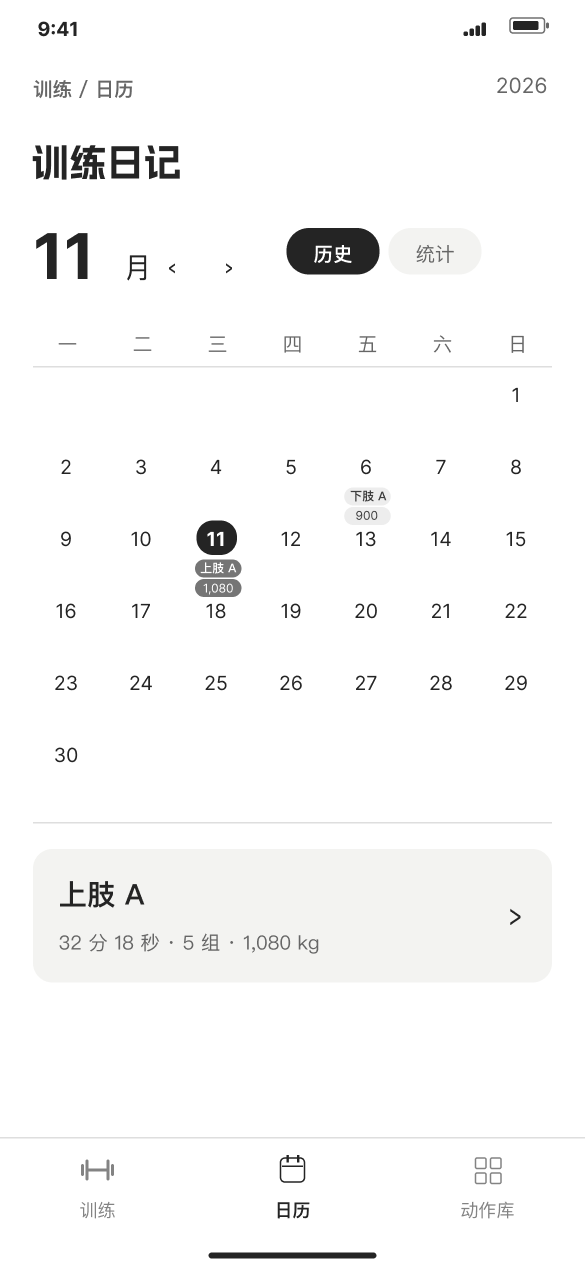
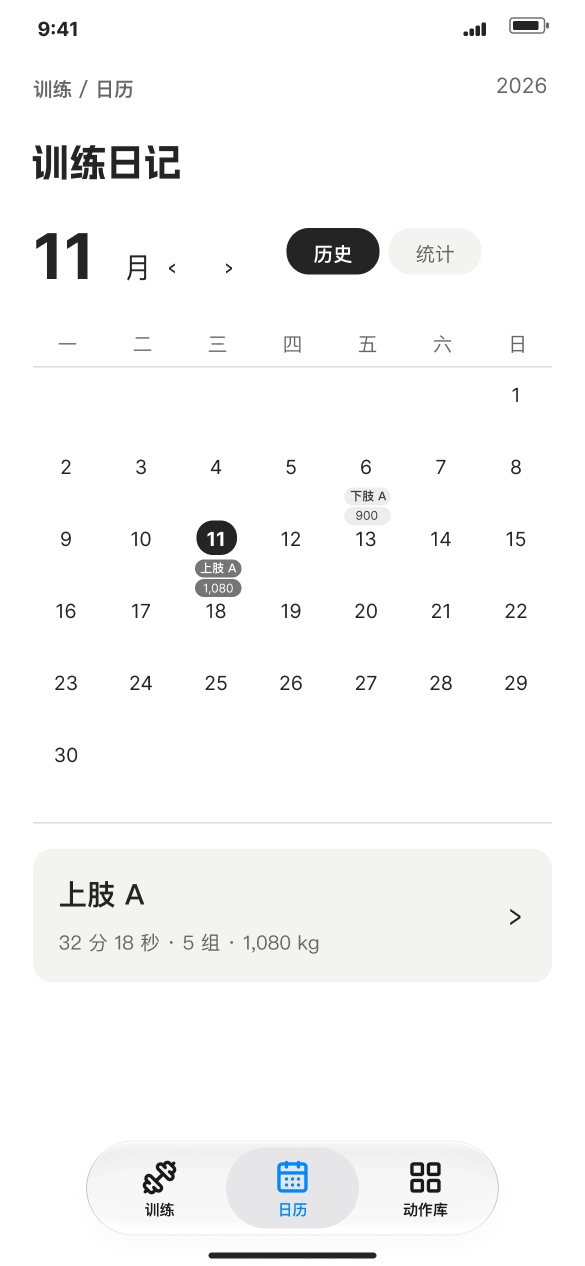
发布健身 1.11.5 并统一手机悬浮导航和卡片底色

diff --git a/app/gym/gym.css b/app/gym/gym.css
@@ -119,7 +119,7 @@ html:has(.gym) {
 }
 .plan-card {
   border-radius: 15px;
-  background: #f3f3f1;
+  background: #f2f2f7;
   position: relative;
   min-width: 0;
 }
@@ -347,20 +347,6 @@ html:has(.gym) {
   width: 100%;
   height: 180px;
   margin: 15px 0;
-}
-.gym-orb {
-  position: fixed;
-  bottom: 26px;
-  left: max(22px, calc(50% - 205px));
-  z-index: 3;
-}
-.gym .gym-orb {
-  border-radius: 50%;
-  width: 56px;
-  height: 56px;
-  padding: 0;
-  background: #292929;
-  color: white;
 }
 .gym-credit {
   display: block;
@@ -632,9 +618,6 @@ html:has(.gym) {
     grid-template-columns: 1fr 1fr;
     gap: 0 30px;
   }
-  .gym[data-device="desktop"] .gym-orb {
-    left: max(40px, calc(50% - 360px));
-  }
   .gym[data-device="desktop"] .gym-plans {
     grid-template-columns: repeat(2, minmax(0, 1fr));
   }
@@ -718,3 +701,47 @@ html:has(.gym) {
 .inline-number input { appearance:textfield; width:100%; min-width:0; border:0; padding:0; background:transparent; color:inherit; text-align:center; outline:0; line-height:1.2; font-family:inherit; font-size:17px; font-weight:600; }
 .inline-number input::-webkit-inner-spin-button { appearance:none; }
 .set-number { font-size:12px; white-space:nowrap; }
+
+.gym-tabs {
+  position: fixed;
+  z-index: 3;
+  left: 50%;
+  bottom: max(18px, env(safe-area-inset-bottom));
+  transform: translateX(-50%);
+  display: flex;
+  width: min(274px, calc(100vw - 32px));
+  height: 62px;
+  box-sizing: border-box;
+  padding: 3px;
+  border: 1px solid rgba(0,0,0,.08);
+  border-radius: 34px;
+  background: linear-gradient(180deg,rgba(239,239,240,.88),rgba(254,254,254,.92));
+  backdrop-filter: blur(18px);
+  box-shadow: inset 0 1px 1px white, 0 2px 7px rgba(0,0,0,.07);
+}
+.gym .gym-tabs button {
+  flex: 1;
+  min-width: 0;
+  display: flex;
+  flex-direction: column;
+  align-items: center;
+  justify-content: center;
+  gap: 1px;
+  padding: 0;
+  border-radius: 28px;
+  color: #1a1a1a;
+  background: transparent;
+  font-size: 10px;
+  line-height: 13px;
+  font-weight: 600;
+}
+.gym .gym-tabs button.highlighted { color: #0088ff; background: rgba(225,225,227,.8); }
+.gym-tabs-compact {
+  width: 106px;
+  left: max(22px, calc(50% - 203px));
+  transform: none;
+}
+.gym-page:has(.gym-tabs-compact) .library-results { padding-bottom: max(94px, calc(env(safe-area-inset-bottom) + 76px)); }
+@media (min-width: 800px) {
+  .gym[data-device="desktop"] .gym-tabs-compact { left: max(40px, calc(50% - 362px)); }
+}

diff --git a/components/gym/gym-app.tsx b/components/gym/gym-app.tsx
@@ -1,6 +1,7 @@
 "use client";
 import Image from "next/image";
-import { CalendarDays, Dumbbell, LayoutGrid, Pencil } from "lucide-react";
+import { GymNavigation } from "./navigation";
+import { Pencil } from "lucide-react";
 import { useEffect, useRef, useState } from "react";
 import { changeGym, readGym, readWorkout } from "@/app/gym/actions";
 import { loginUrl } from "@/lib/login-routing";
@@ -499,26 +500,7 @@ export default function GymApp({
           />
         )}
         {navVisible && (
-          <nav className="gym-dock" aria-label="健身导航">
-            {(["home", "diary", "browse"] as const).map((v, i) => (
-              <button
-                key={v}
-                className={
-                  view === v || (v === "diary" && isDiary) ? "current" : ""
-                }
-                onClick={() => go(v)}
-              >
-                {i === 0 ? (
-                  <Dumbbell size={18} aria-hidden="true" />
-                ) : i === 1 ? (
-                  <CalendarDays size={18} aria-hidden="true" />
-                ) : (
-                  <LayoutGrid size={18} aria-hidden="true" />
-                )}
-                {["训练", "日历", "动作库"][i]}
-              </button>
-            ))}
-          </nav>
+          <GymNavigation current={isDiary ? "diary" : "home"} navigate={go} />
         )}
         {dialog === "name" && (
           <Sheet title="计划名称" message={message} close={() => show(null)}>

diff --git a/components/gym/navigation.tsx b/components/gym/navigation.tsx
@@ -1,0 +1,27 @@
+"use client";
+
+import { CalendarDays, Dumbbell, LayoutGrid } from "lucide-react";
+
+const tabs = [
+  { view: "home", label: "训练", Icon: Dumbbell },
+  { view: "diary", label: "日历", Icon: CalendarDays },
+  { view: "browse", label: "动作库", Icon: LayoutGrid },
+] as const;
+type Tab = typeof tabs[number]["view"];
+
+export function GymNavigation({ current, compact = false, navigate }: {
+  current: Tab;
+  compact?: boolean;
+  navigate: (tab: Tab) => void;
+}) {
+  return <nav className={"gym-tabs" + (compact ? " gym-tabs-compact" : "")} aria-label="健身导航">
+    {(compact ? tabs.slice(0, 1) : tabs).map(({ view, label, Icon }) => (
+      <button key={view} type="button" className={compact || view === current ? "highlighted" : ""}
+        aria-current={!compact && current === view ? "page" : undefined}
+        aria-label={compact ? "返回训练首页" : label} onClick={() => navigate(view)}>
+        <Icon size={24} strokeWidth={2.25} aria-hidden="true" />
+        <span>{label}</span>
+      </button>
+    ))}
+  </nav>;
+}

diff --git a/components/gym/library.tsx b/components/gym/library.tsx
@@ -2,6 +2,7 @@
 import { useMemo, useRef, useState } from "react";
 import type { Exercise } from "@/lib/gym/model";
 import { Check, Search } from "lucide-react";
+import { GymNavigation } from "./navigation";
 import { GymTitle, Thumb, Sheet, modeLabels } from "./parts";
 export function Library({
   catalog,
@@ -103,9 +104,7 @@ export function Library({
         </div>
       </section>
       {browse && (
-        <button className="gym-orb" aria-label="返回训练首页" onClick={onBack}>
-          训练
-        </button>
+        <GymNavigation current="browse" compact navigate={onBack} />
       )}
       {detail && (
         <Sheet title={detail.name} close={() => setDetail(null)}>

diff --git a/lib/product-versions.ts b/lib/product-versions.ts
@@ -1,5 +1,5 @@
 export const productVersions = {
   login: "1.11.1",
   todo: "1.11.1",
-  gym: "1.11.4",
+  gym: "1.11.5",
 } as const;

diff --git a/docs/设计日志/健身/设计与写作规则.md b/docs/设计日志/健身/设计与写作规则.md
@@ -19,7 +19,7 @@
 - 用户进健身房时打开手机，开始记录本次训练，随训练进度逐组操作。
 - 手机端提供动作库，训练中可以添加动作、为动作设置组数。每组都能手动填写实际重量和次数，做完一组即可单独点击完成。
 - 用户可以新建自己的训练计划。
-- 从底栏进入动作库仅浏览，左下圆形入口回首页。新建计划时多选动作，点完成后命名、保存并返回首页；训练中临时追加的动作只写入当次训练。动作图匹配器械与姿势，缺图保留相同尺寸的图位。
+- 从底栏进入动作库仅浏览，左下短胶囊入口回首页。新建计划时多选动作，点完成后命名、保存并返回首页；训练中临时追加的动作只写入当次训练。动作图匹配器械与姿势，缺图保留相同尺寸的图位。
 - 逐组记录支持重量与次数、左右分别记录、持续时间。可以新增加组、撤销完成、最小化继续、保存心得。完成后查看时长、容量、完成组与未训练动作；日记按选中日期列出训练，统计共用训练数据。
 - 容量口径为本阶段实现选择：仅累加完成组的外部负重。杠铃按含杆总重；双哑铃同步按单只重量 × 2 × 次数；左右独立按两侧重量 × 各自次数相加；自重只计额外负重，辅助配重与计时不折算 kg。日历按开始时的上海自然日归档，多次训练可合计。
 - 账号与会话复用在侧，模块登录回跳区分手机与桌面。动作库和图像由服务端管理，各账号仅能访问自己的计划、训练与心得。
@@ -38,3 +38,5 @@
 普通组和递减组按整组勾选。递减组每段记录独立的重量和次数，完成后累计各段容量、计一个完成组。组行依次显示组号、负重、次数、勾选及更多操作；计时动作显示秒数。更多菜单可转换为递减组或复制整组。复制保留全部段并置为未完成。历史详情底部可删除该次记录，确认后返回原日期；刚结束训练的总结仍可返回训练首页。
 
 训练中点重量、次数或秒数直接在该框录入。重量允许小数，次数与秒数为整数。单侧动作分别编辑左、右值。切换字段与勾选可连续操作，只有组菜单和历史删除确认使用弹层。
+
+主导航为悬浮胶囊。训练、日历、动作库分别使用哑铃、日历页、四格图标，选中入口为蓝色。浏览动作库时只显示左下训练返回入口；进行中的训练沿用当次训练操作栏。计划双列的浅色实底采用 #F2F2F7。

diff --git a/docs/设计日志/健身/设计日志.md b/docs/设计日志/健身/设计日志.md
@@ -130,3 +130,9 @@
 在 Figma EX 的手机端同步主训练页、训练开始与逐组状态、复制与递减示例、左右与计时数据框。数字框的焦点状态使用数字键盘示意。日记的 11 月 6 日及 11 日记录分别连接历史专用详情、删除确认及原日期空态，刚结束的总结保留首页出口。
 
[1 lines of base64/hex data omitted]
+
+## 2026-11-12-06｜主导航与计划卡底色
+
+依据用户手改 01 和 02 同步主导航。完整胶囊 274 × 62、返回胶囊 106 × 62，使用手改稿的玻璃背景组件，换成与网页同源的哑铃、日历页和四格矢量图标。上肢卡在首页与保存、恢复训练状态统一为 #F2F2F7。复核 24 个画板实例中各按钮的跳转目标。
+
+取生产 20261112-04 完整源码，使用业务发布脚本上线健身 1.11.5 / 20261112-05。隔离发布包在 320、390、430 px 手机宽度验证导航、选中态、动作库收起与返回及卡片底色；并回归原位输入、递减、复制及历史删除。数据库沿用版本 10，发布前备份，完整源包已回传校验。[Linux 构建](https://github.com/zqsoren/Foilo/actions/runs/43161634317)

diff --git a/docs/设计日志/在侧Folio-新窗口交接.md b/docs/设计日志/在侧Folio-新窗口交接.md
@@ -13,7 +13,7 @@
 | 模块 | 最近里程碑 | 当前状态 | 历史过程 | 现行规则 |
 |---|---|---|---|---|
 | ToDo（日程） | 网页版与共用登录已上线；手机端七张黑白灰设计稿待评审 | [当前状态](ToDo/新窗口交接.md) | [设计日志](ToDo/设计日志.md) | [设计与写作规则](ToDo/设计与写作规则.md) |
-| 健身 | 手机训练与桌面统计已上线，入口 `/gym`，产品版本 1.11.4 | [当前状态](健身/新窗口交接.md) | [设计日志](健身/设计日志.md) | [设计与写作规则](健身/设计与写作规则.md) |
+| 健身 | 手机训练与桌面统计已上线，入口 `/gym`，产品版本 1.11.5 | [当前状态](健身/新窗口交接.md) | [设计日志](健身/设计日志.md) | [设计与写作规则](健身/设计与写作规则.md) |
 | 宣传页 | 第五版桌面页已上线；手机不在本轮范围 | [当前状态](宣传页/新窗口交接.md) | [设计日志](宣传页/设计日志.md) | [设计与写作规则](宣传页/设计与写作规则.md) |
 
 共用登录 `/login` 的现行稿、实现和发布记录暂由 ToDo 维护。其他模块复用；修改时检查登录回跳和其他模块入口。它与未来的账号主页属于不同范围。

diff --git a/docs/设计日志/版本号.md b/docs/设计日志/版本号.md
@@ -21,7 +21,7 @@
 | 共用登录页（含注册） | **1.11.1** | 2026-11-10 | 手机号、密码和注册页底部居中，显示 `LOGIN \| 1.11.1` |
 | ToDo | **1.11.1** | 2026-11-10 | 网页版「数据概览」和「所有任务」页底居中，显示 `TODO \| 1.11.1`。网页和手机设置中也可查看 |
 | 宣传页 | **1.11.1** | 2026-11-11 | 独立页面 HTML 的 `folio-version` meta；页面不增加可见版本字样 |
-| 健身 | **1.11.4** | 2026-11-12 | 登录后的 `/gym` 页面 `folio-version` meta，业务发布 20261112-04 |
+| 健身 | **1.11.5** | 2026-11-12 | 登录后的 `/gym` 页面 `folio-version` meta，业务发布 20261112-05 |
 
 宣传页独立静态发布，版本写入 `folio-landing/index.html` 的 `folio-version` meta，不在 UI 新增版本文字。
 
